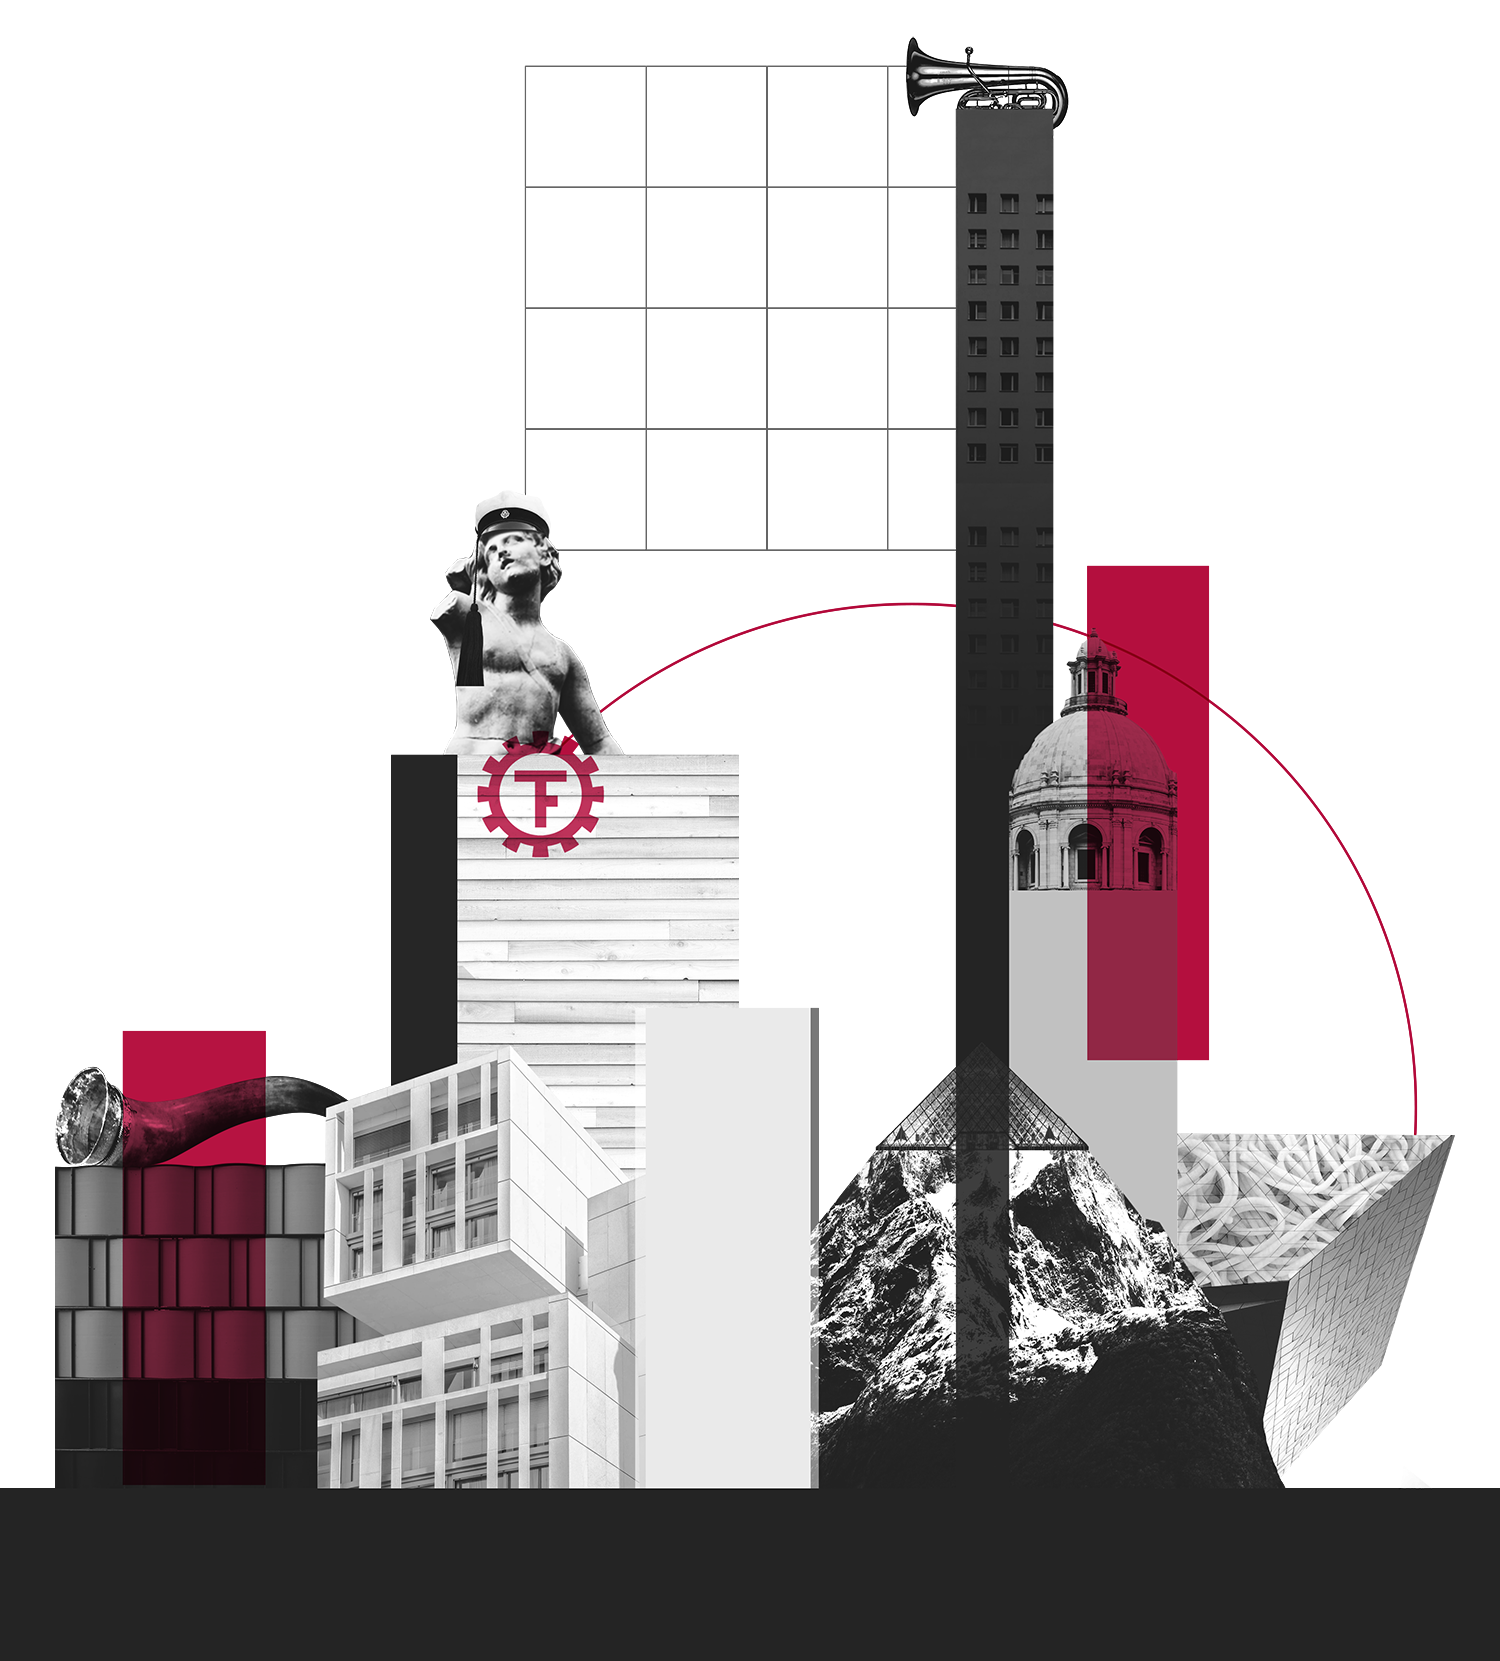
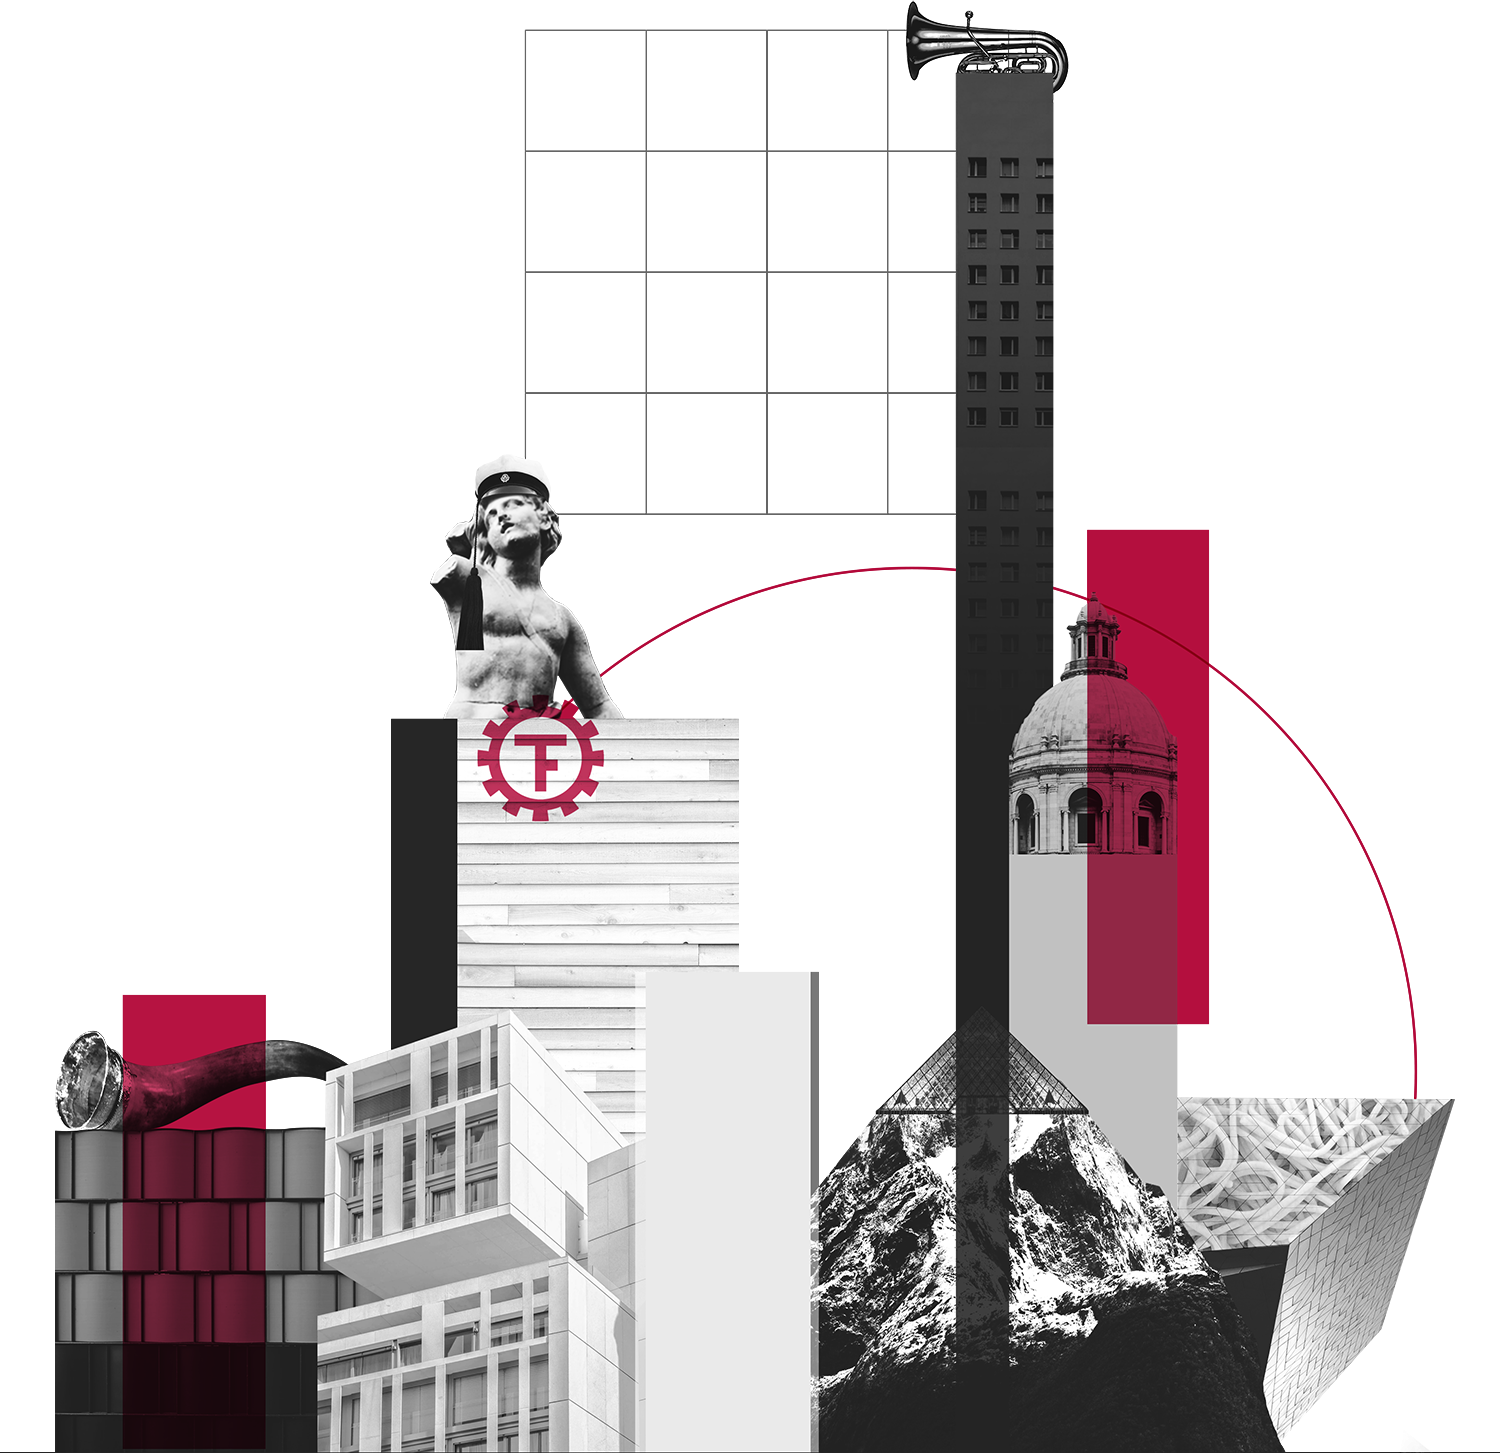
Implement cover page

diff --git a/src/components/layout.css b/src/components/layout.css
@@ -1,5 +1,7 @@
 html {
-  font-family: 'Montserrat', sans-serif;
+  font-family: "Montserrat", sans-serif;
+  font-weight: 300;
+  font-style: normal;
   -ms-text-size-adjust: 100%;
   -webkit-text-size-adjust: 100%;
 }
@@ -185,7 +187,7 @@ textarea {
   font: inherit;
 }
 html {
-  font: 112.5%/1.45em 'Montserrat', sans-serif;
+  font: 112.5%/1.45em "Montserrat", sans-serif;
   box-sizing: border-box;
   overflow-y: scroll;
 }
@@ -200,8 +202,8 @@ html {
 }
 body {
   color: hsla(0, 0%, 0%, 1);
-  font-family: 'Montserrat', sans-serif;
-  font-weight: normal;
+  font-family: "Montserrat", sans-serif;
+  font-weight: 300;
   word-wrap: break-word;
   font-kerning: normal;
   -moz-font-feature-settings: "kern", "liga", "clig", "calt";
@@ -230,7 +232,6 @@ h1 {
   padding-top: 0;
   margin-bottom: 1.45rem;
   color: #07497e;
-  font-family: 'Roboto Slab', serif;
   font-weight: bold;
   text-rendering: optimizeLegibility;
   text-transform: uppercase;
@@ -247,7 +248,6 @@ h2 {
   padding-top: 0;
   margin-bottom: 1.45rem;
   color: inherit;
-  font-family: 'Roboto Slab', serif;
   font-weight: bold;
   text-rendering: optimizeLegibility;
   font-size: 1.62671rem;
@@ -263,7 +263,6 @@ h3 {
   padding-top: 0;
   margin-bottom: 1.45rem;
   color: inherit;
-  font-family: 'Roboto Slab', serif;
   font-weight: bold;
   text-rendering: optimizeLegibility;
   font-size: 1.38316rem;
@@ -279,7 +278,6 @@ h4 {
   padding-top: 0;
   margin-bottom: 1.45rem;
   color: inherit;
-  font-family: 'Roboto Slab', serif;
   font-weight: bold;
   text-rendering: optimizeLegibility;
   font-size: 1rem;
@@ -295,7 +293,6 @@ h5 {
   padding-top: 0;
   margin-bottom: 1.45rem;
   color: inherit;
-  font-family: 'Roboto Slab', serif;
   font-weight: bold;
   text-rendering: optimizeLegibility;
   font-size: 0.85028rem;
@@ -311,7 +308,6 @@ h6 {
   padding-top: 0;
   margin-bottom: 1.45rem;
   color: inherit;
-  font-family: 'Roboto Slab', serif;
   font-weight: bold;
   text-rendering: optimizeLegibility;
   font-size: 0.78405rem;

diff --git a/src/components/layout.tsx b/src/components/layout.tsx
@@ -44,44 +44,12 @@ const Layout: FC = ({ children }) => {
   `)
 
   return (
-    <div
-      style={{
-        display: "flex",
-        flexDirection: "column",
-      }}
-    >
-      <Header />
-      <div
-        style={{
-          display: "flex",
-          justifyContent: "center",
-        }}
-      >
-        <div
-          style={{
-            flex: 1,
-            backgroundImage: `url("${data.bricksLeft.publicURL}")`,
-            backgroundRepeat: "repeat-y",
-            backgroundPositionX: "100%",
-            backgroundColor: "#F1F5FB",
-          }}
-        />
-        <div className={styles.container}>
-          <main>{children}</main>
-          <footer>
-            © {new Date().getFullYear()},{` `}
-            <a href="https://www.tf.fi">Teknologföreningen</a>
-          </footer>
-        </div>
-        <div
-          style={{
-            flex: 1,
-            backgroundImage: `url("${data.bricksRight.publicURL}")`,
-            backgroundRepeat: "repeat-y",
-            backgroundColor: "#F1F5FB",
-          }}
-        />
-      </div>
+    <div>
+      <main>{children}</main>
+      <footer>
+        © {new Date().getFullYear()},{` `}
+        <a href="https://www.tf.fi">Teknologföreningen</a>
+      </footer>
     </div>
   )
 }

diff --git a/src/components/cover.module.css b/src/components/cover.module.css
@@ -1,0 +1,68 @@
+@import "./constants.css";
+
+.cover {
+  display: flex;
+  flex-direction: column;
+  min-height: 568px;
+  max-height: 700px;
+  height: 85vh;
+}
+
+.logoAndImage {
+  flex: 1;
+  display: flex;
+  flex-direction: column;
+  align-items: center;
+  justify-content: space-between;
+}
+
+@media (min-width: 1024px) {
+  .cover {
+    align-items: center;
+  }
+
+  .logoAndImage {
+    width: 1024px;
+    flex-direction: row;
+    justify-content: space-around;
+  }
+
+  .image {
+    width: 400px !important;
+    align-self: flex-end;
+  }
+}
+
+.logo {
+  width: 100%;
+  max-width: 450px;
+  padding: var(--margin-small);
+}
+
+.image {
+  width: 250px;
+}
+
+.slogan {
+  width: 100%;
+  color: white;
+  background-color: var(--dark-gray);
+  display: flex;
+  flex-direction: column;
+  align-items: center;
+  padding: var(--margin-small) var(--margin-small) 0 var(--margin-small);
+  text-align: center;
+}
+
+.slogan > h1 {
+  font-weight: 900;
+  text-transform: uppercase;
+  color: white;
+  margin: 0 0 var(--margin-small) 0;
+}
+
+.slogan > p {
+  font-style: italic;
+  margin: 0 0 var(--margin-small) 0;
+  white-space: pre-wrap;
+}

diff --git a/src/components/TFFundraisingLogo.tsx b/src/components/TFFundraisingLogo.tsx
@@ -13,26 +13,27 @@ import Img from "gatsby-image"
  * - `useStaticQuery`: https://www.gatsbyjs.org/docs/use-static-query/
  */
 
-const Collage: FC = () => {
+const TFFundraisingLogo: FC = () => {
   const data = useStaticQuery(graphql`
     query {
-      file(relativePath: { eq: "collage.png" }) {
+      file(relativePath: { eq: "tf-fundraising.svg" }) {
         childImageSharp {
-          fluid(maxWidth: 1500) {
+          fluid(maxWidth: 600) {
             ...GatsbyImageSharpFluid_noBase64
           }
         }
+        publicURL
       }
     }
   `)
 
   return (
-    <Img
-      fluid={data.file.childImageSharp.fluid}
-      style={{ maxHeight: "100%" }}
-      imgStyle={{ objectFit: "contain" }}
+    <img
+      style={{ margin: 0 }}
+      src={data.file.publicURL}
+      alt="TF Fundraising-logotyp"
     />
   )
 }
 
-export default Collage
+export default TFFundraisingLogo

diff --git a/src/components/cover.tsx b/src/components/cover.tsx
@@ -1,4 +1,7 @@
 import React from "react"
+import Collage from "./collage"
+import styles from "./cover.module.css"
+import TFFundraisingLogo from "./TFFundraisingLogo"
 
 export interface CoverProps {
   boldedText: string
@@ -13,5 +16,21 @@ export const Cover: React.FC<CoverProps> = ({
   leadingText,
   trailingText,
 }) => {
-  return <h1>Cover</h1>
+  return (
+    <section className={styles.cover}>
+      <div className={styles.logoAndImage}>
+        <div className={styles.logo}>
+          <TFFundraisingLogo />
+        </div>
+        <div className={styles.image}>
+          <Collage />
+        </div>
+      </div>
+      <div className={styles.slogan}>
+        <p>{leadingText}</p>
+        <h1>{boldedText}</h1>
+        <p>{trailingText.trailingText}</p>
+      </div>
+    </section>
+  )
 }

diff --git a/src/components/seo.tsx b/src/components/seo.tsx
@@ -87,9 +87,9 @@ const SEO: FC<SEOProps> = ({
       ].concat(meta)}
     >
       <link
-        href="https://fonts.googleapis.com/css?family=Montserrat:400,700i|Roboto+Slab&display=swap"
+        href={`https://fonts.googleapis.com/css2?family=Montserrat:ital,wght@0,300;0,400;0,900;1,300;1,400;1,900&display=swap`}
         rel="stylesheet"
-      ></link>
+      />
     </Helmet>
   )
 }

diff --git a/src/components/constants.css b/src/components/constants.css
@@ -1,0 +1,4 @@
+:root {
+  --dark-gray: #242424;
+  --margin-small: 16px;
+}
